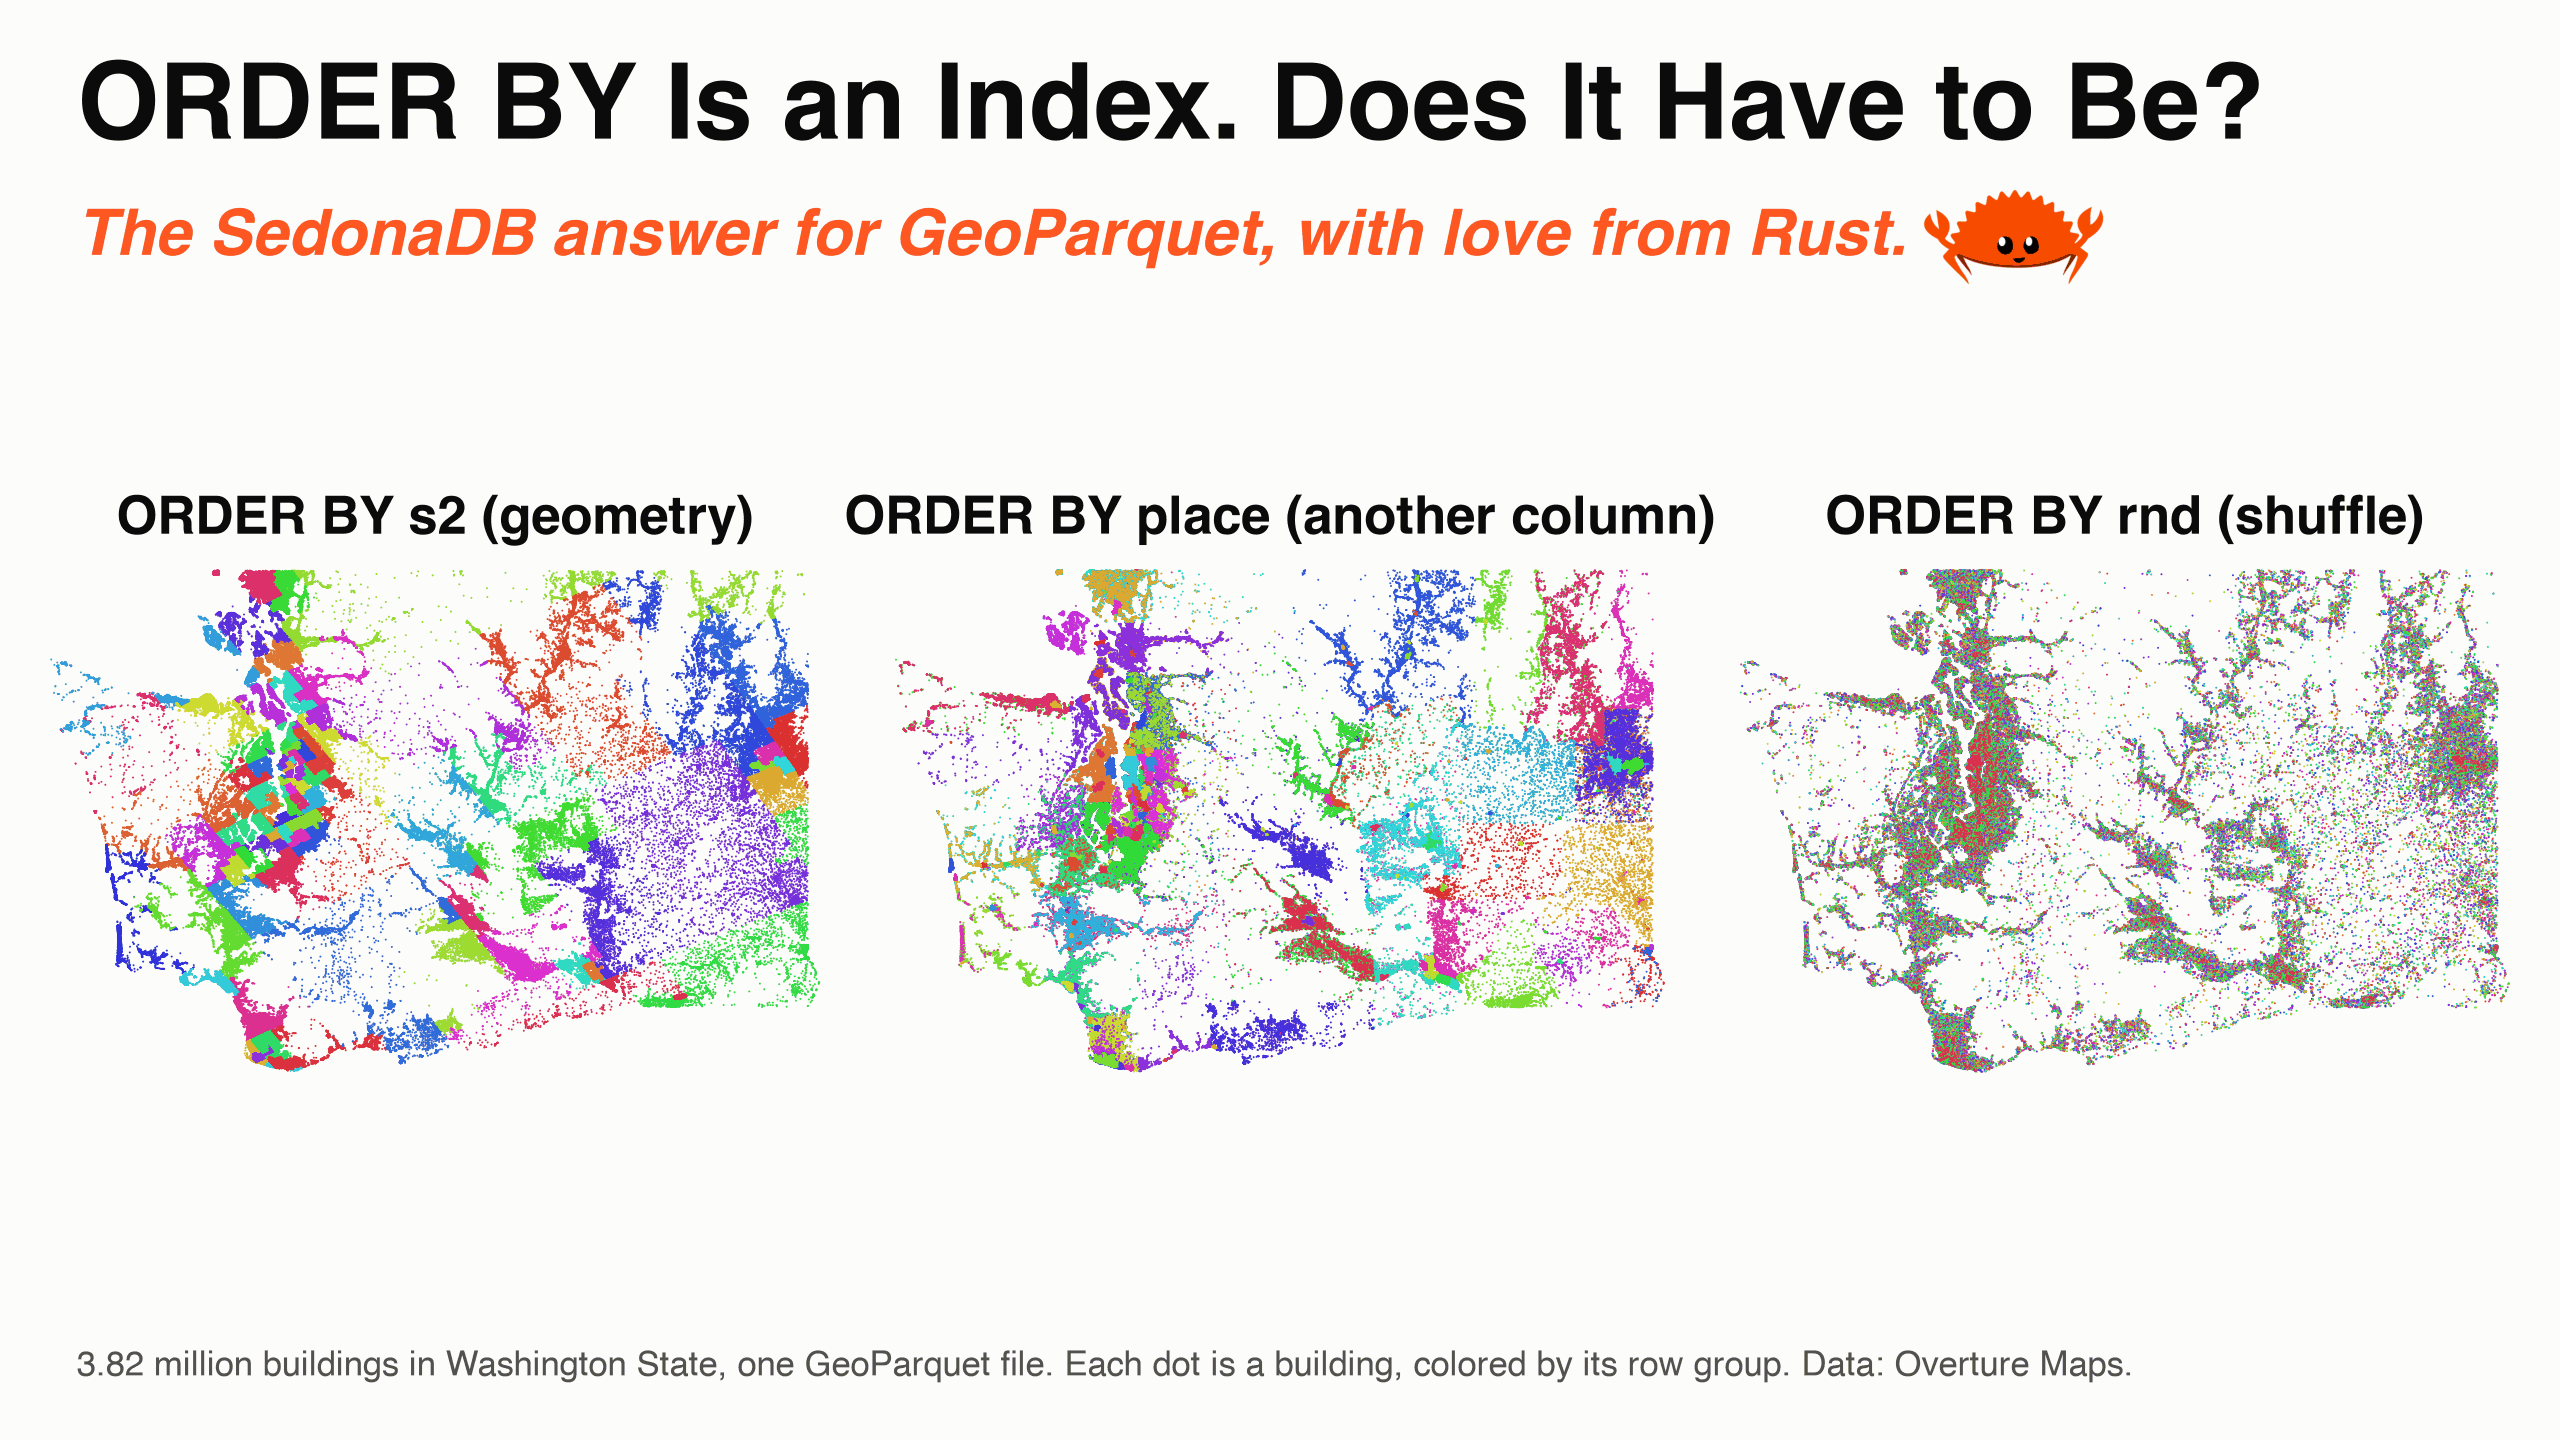
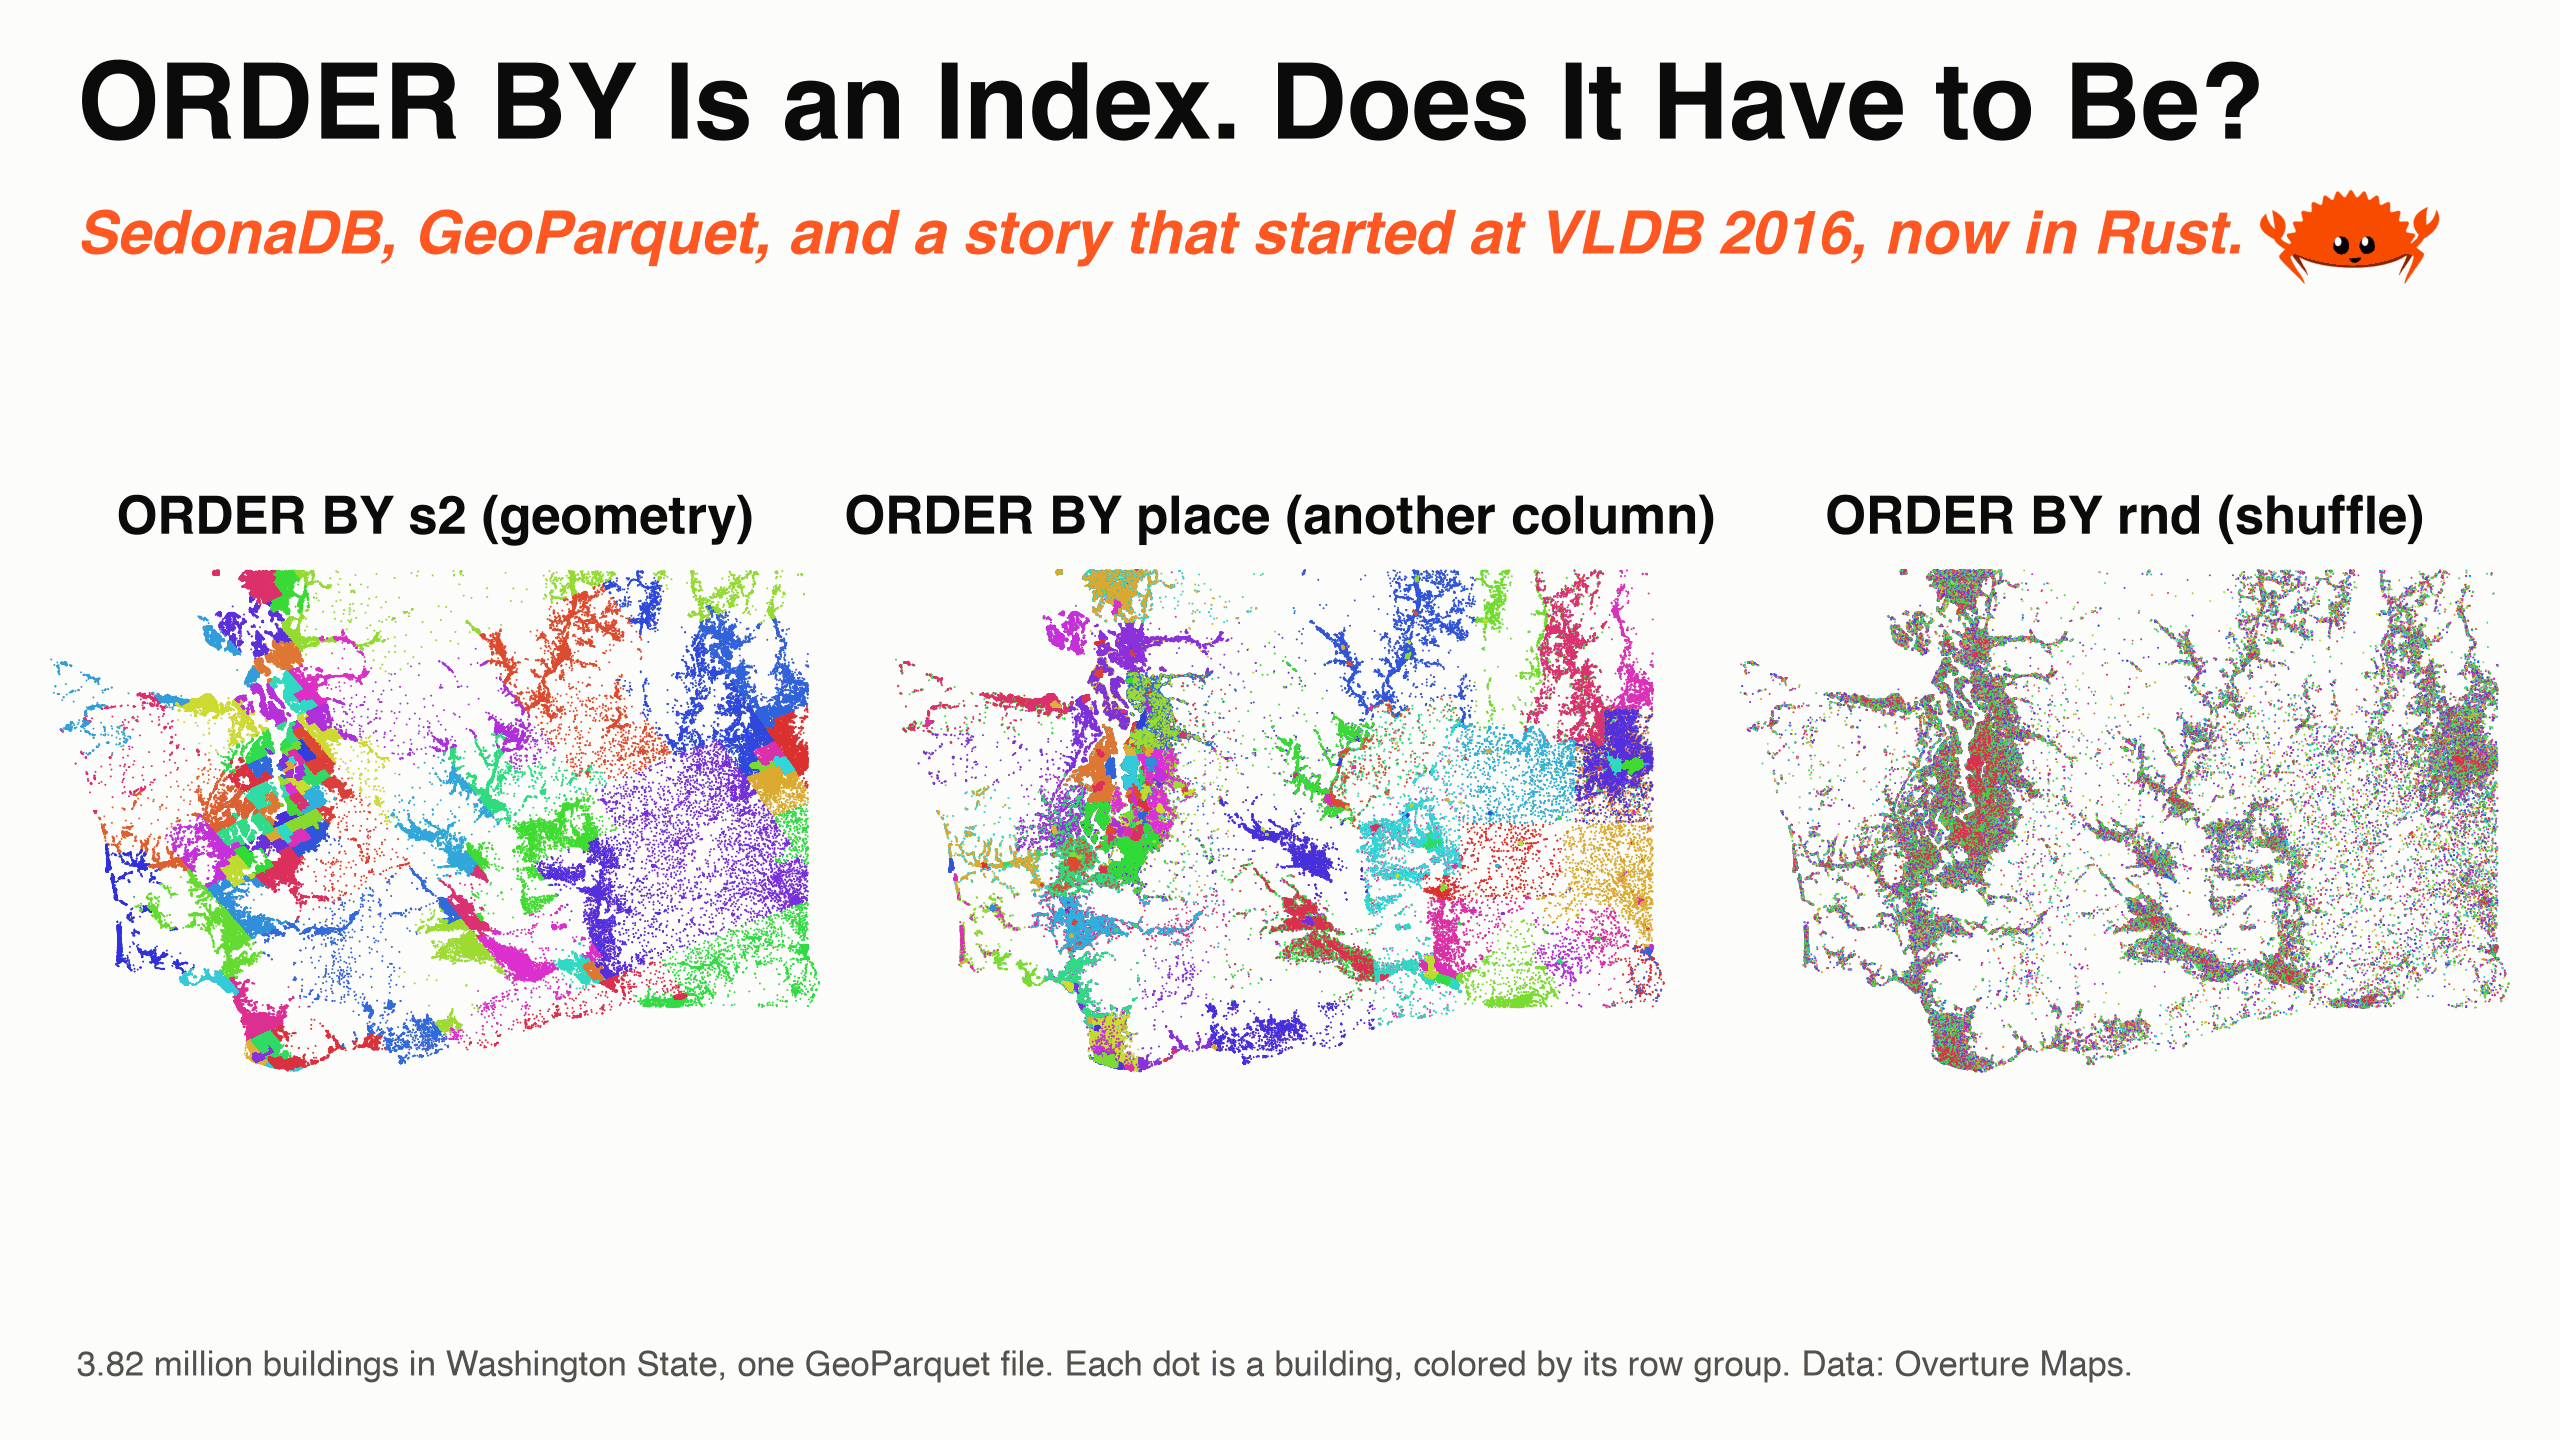
[DOCS] Layout post: new subtitle

Changed region(s): [[0.0312, 0.125, 0.9688, 0.1875]]

diff --git a/docs/blog/posts/orderby-index.md b/docs/blog/posts/orderby-index.md
@@ -13,7 +13,7 @@ slug: order-by-is-an-index-does-it-have-to-be
 
 # ORDER BY Is an Index. Does It Have to Be?
 
-*The SedonaDB answer for GeoParquet, with love from Rust.*
+*SedonaDB, GeoParquet, and a story that started at VLDB 2016, now in Rust.*
 
 Parquet has stored a minimum and a maximum for every column in every row group [since September 2013](https://github.com/apache/parquet-format/commit/2c4ada8e988c1c0018332e420764c09bab16bf9c). PostgreSQL 9.5 [added BRIN in January 2016](https://www.postgresql.org/docs/release/9.5.0/): one small summary per range of blocks, cheap to update, useful when the data is clustered. In the same year the original creators of Apache Sedona, Jia Yu and Mohamed Sarwat, published [Hippo](https://jiayuasu.github.io/files/paper/hippo_vldb2016_fullpaper.pdf) at VLDB, the top database conference. Hippo is a sparse index 25 to 30 times smaller than a B+-tree, with a goal the min/max family never had: skip data that is not sorted. Ten years later, data skipping is how every lakehouse engine reads a file, and the question from 2016 is still open. Below: 3.82 million Washington buildings in one GeoParquet file, written three ways. Sorted by geometry, sorted by another column, and shuffled.
 
